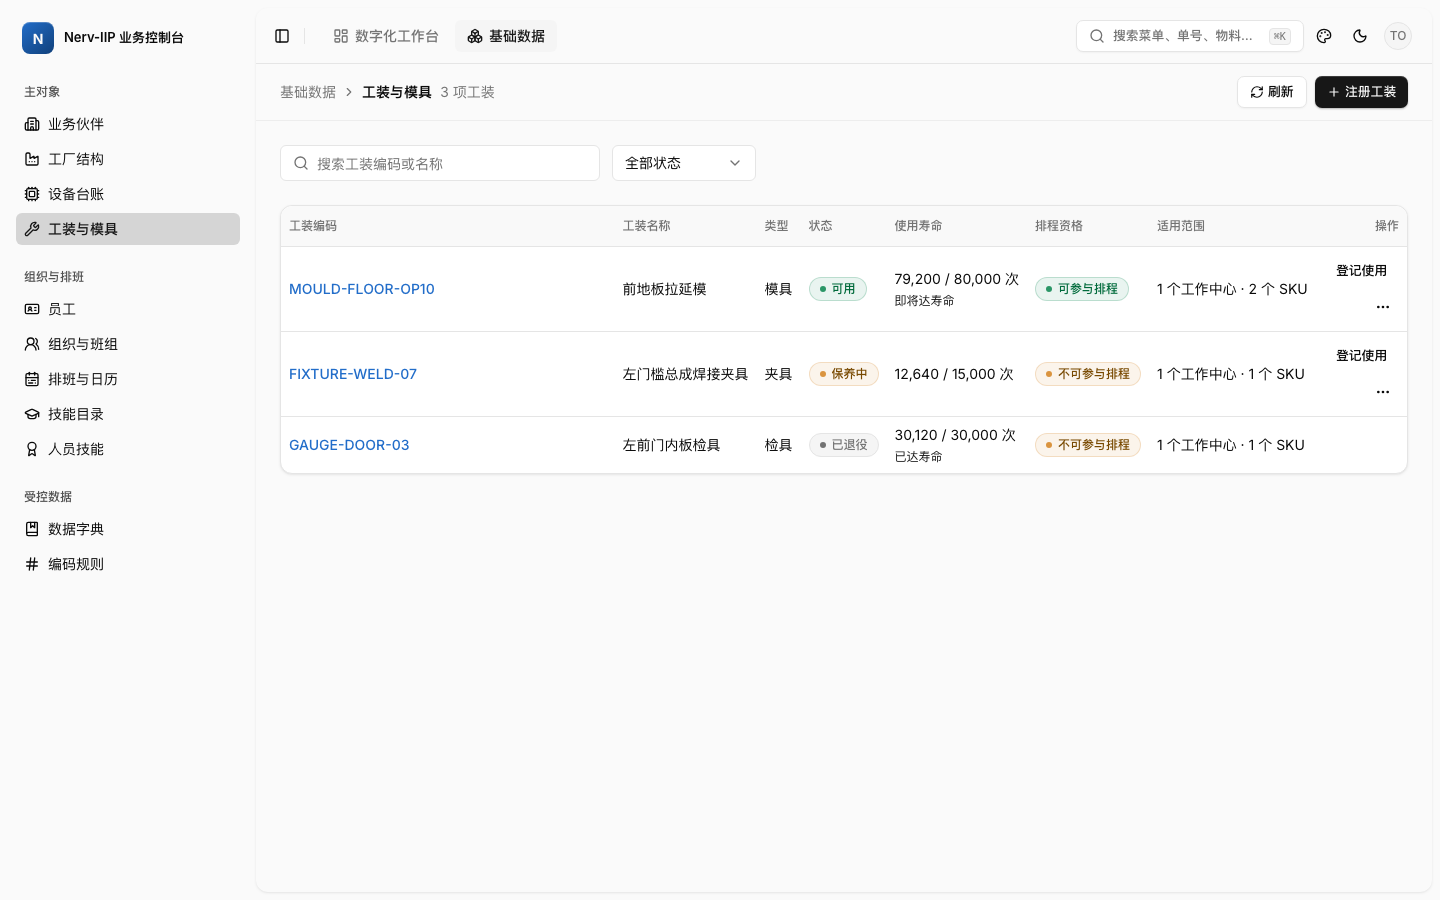
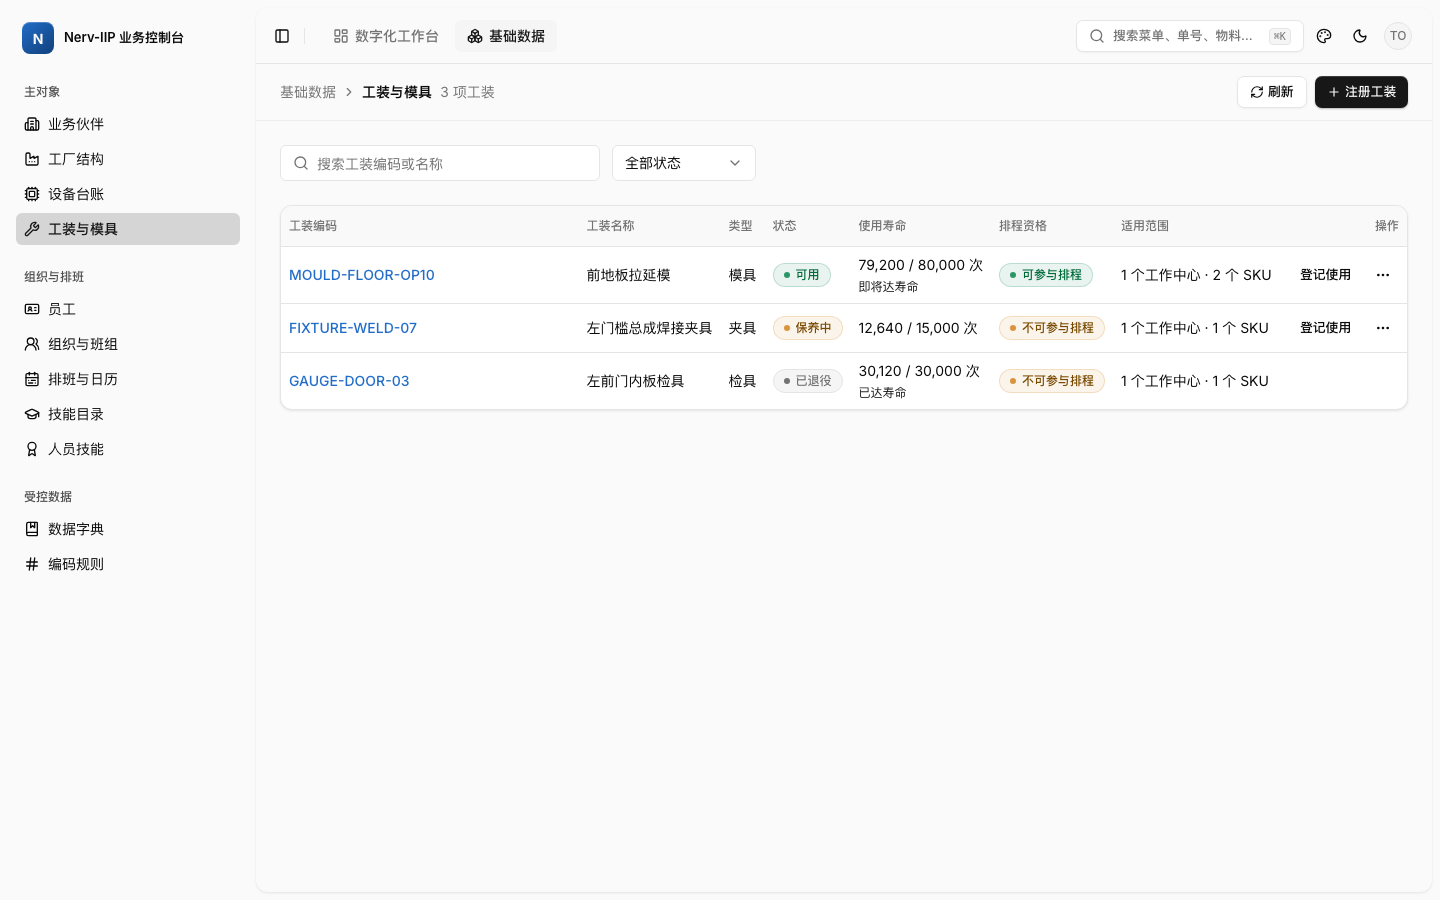
fix(console): 收口工装维护台错误态

diff --git a/frontend/apps/business-console/src/pages/master-data/tooling.vue b/frontend/apps/business-console/src/pages/master-data/tooling.vue
@@ -251,6 +251,7 @@ const statusActionLabel = computed(() =>
       ? '完成保养'
       : '退役',
 )
+const statusReasonInvalid = computed(() => statusShowErrors.value && !statusReason.value.trim())
 function openStatus(
   row: BusinessConsoleToolingAssetItem,
   status: BusinessConsoleToolingAssetStatus,
@@ -417,7 +418,7 @@ const listErrorMessage = computed(() =>
         {{ row.workCenterCodes?.length ?? 0 }} 个工作中心 · {{ row.skuCodes?.length ?? 0 }} 个 SKU
       </template>
       <template #cell-actions="{ row }">
-        <div class="flex flex-wrap justify-end gap-1">
+        <div class="flex flex-nowrap items-center justify-end gap-1">
           <NvButton
             v-if="canManage && row.status !== 'retired'"
             type="button"
@@ -568,7 +569,7 @@ const listErrorMessage = computed(() =>
               <NvFieldError v-if="registerLifeError" :errors="[registerLifeError]" />
             </NvField>
             <FormSectionTitle class="sm:col-span-2">适用范围</FormSectionTitle>
-            <NvField class="sm:col-span-2" :data-invalid="Boolean(registerWorkCenterError)">
+            <NvField class="sm:col-span-2" :aria-invalid="Boolean(registerWorkCenterError)">
               <NvFieldLabel>
                 <span :class="registerWorkCenterError ? 'text-destructive' : undefined">
                   适用工作中心 <span class="text-destructive">*</span>
@@ -576,7 +577,7 @@ const listErrorMessage = computed(() =>
               </NvFieldLabel>
               <div
                 class="grid gap-2 rounded-lg border p-3 sm:grid-cols-2"
-                :aria-invalid="Boolean(registerWorkCenterError)"
+                :data-invalid="Boolean(registerWorkCenterError)"
                 :class="registerWorkCenterError ? 'border-destructive' : ''"
               >
                 <label
@@ -606,7 +607,7 @@ const listErrorMessage = computed(() =>
               </NvFieldDescription>
               <NvFieldError v-if="registerWorkCenterError" :errors="[registerWorkCenterError]" />
             </NvField>
-            <NvField class="sm:col-span-2" :data-invalid="Boolean(registerSkuError)">
+            <NvField class="sm:col-span-2" :aria-invalid="Boolean(registerSkuError)">
               <NvFieldLabel>
                 <span :class="registerSkuError ? 'text-destructive' : undefined">
                   适用 SKU <span class="text-destructive">*</span>
@@ -614,7 +615,7 @@ const listErrorMessage = computed(() =>
               </NvFieldLabel>
               <div
                 class="grid gap-2 rounded-lg border p-3 sm:grid-cols-2"
-                :aria-invalid="Boolean(registerSkuError)"
+                :data-invalid="Boolean(registerSkuError)"
                 :class="registerSkuError ? 'border-destructive' : ''"
               >
                 <label
@@ -661,21 +662,25 @@ const listErrorMessage = computed(() =>
           <NvDialogTitle>{{ statusActionLabel }}</NvDialogTitle>
           <NvDialogDescription>
             {{
-              nextStatus === 'retired'
-                ? '退役为终态，工装将永久退出排程。'
-                : '原因会随状态变更留痕。'
+              nextStatus === 'available'
+                ? '完成保养后将清零累计使用次数，请说明本次状态变更原因。'
+                : '请说明本次状态变更原因。'
             }}
           </NvDialogDescription>
         </NvDialogHeader>
-        <NvField>
-          <NvFieldLabel for="tooling-status-reason"
-            >原因 <span class="text-destructive">*</span></NvFieldLabel
-          >
-          <NvInput id="tooling-status-reason" v-model="statusReason" />
-          <NvFieldError
-            v-if="statusShowErrors && !statusReason.trim()"
-            :errors="['请填写状态变更原因。']"
+        <NvField :data-invalid="statusReasonInvalid">
+          <NvFieldLabel for="tooling-status-reason">
+            <span :class="statusReasonInvalid ? 'text-destructive' : undefined">
+              原因 <span class="text-destructive">*</span>
+            </span>
+          </NvFieldLabel>
+          <NvInput
+            id="tooling-status-reason"
+            v-model="statusReason"
+            :invalid="statusReasonInvalid"
+            :class="statusReasonInvalid ? '!border-destructive' : undefined"
           />
+          <NvFieldError v-if="statusReasonInvalid" :errors="['请填写状态变更原因。']" />
         </NvField>
         <NvDialogFooter>
           <NvButton type="button" variant="outline" @click="statusOpen = false">取消</NvButton>
@@ -697,20 +702,20 @@ const listErrorMessage = computed(() =>
           <NvAlertDialogTitle>退役</NvAlertDialogTitle>
           <NvAlertDialogDescription> 退役为终态，工装将永久退出排程。 </NvAlertDialogDescription>
         </NvAlertDialogHeader>
-        <NvField :data-invalid="statusShowErrors && !statusReason.trim()">
-          <NvFieldLabel for="tooling-retire-reason"
-            >原因 <span class="text-destructive">*</span></NvFieldLabel
-          >
+        <NvField :data-invalid="statusReasonInvalid">
+          <NvFieldLabel for="tooling-retire-reason">
+            <span :class="statusReasonInvalid ? 'text-destructive' : undefined">
+              原因 <span class="text-destructive">*</span>
+            </span>
+          </NvFieldLabel>
           <NvInput
             id="tooling-retire-reason"
             v-model="statusReason"
-            :invalid="statusShowErrors && !statusReason.trim()"
+            :invalid="statusReasonInvalid"
+            :class="statusReasonInvalid ? '!border-destructive' : undefined"
           />
-          <NvFieldDescription>原因会随状态变更留痕。</NvFieldDescription>
-          <NvFieldError
-            v-if="statusShowErrors && !statusReason.trim()"
-            :errors="['请填写退役原因。']"
-          />
+          <NvFieldDescription>请说明本次退役原因。</NvFieldDescription>
+          <NvFieldError v-if="statusReasonInvalid" :errors="['请填写退役原因。']" />
         </NvField>
         <NvAlertDialogFooter>
           <NvAlertDialogCancel>取消</NvAlertDialogCancel>
@@ -743,11 +748,21 @@ const listErrorMessage = computed(() =>
             保存后工装将自动转为保养中，并停止参与排程。
           </p>
         </div>
-        <NvField>
-          <NvFieldLabel for="tooling-usage-count"
-            >本次使用次数 <span class="text-destructive">*</span></NvFieldLabel
-          >
-          <NvInput id="tooling-usage-count" v-model="usageCount" type="number" min="1" step="1" />
+        <NvField :data-invalid="Boolean(usageValidationMessage)">
+          <NvFieldLabel for="tooling-usage-count">
+            <span :class="usageValidationMessage ? 'text-destructive' : undefined">
+              本次使用次数 <span class="text-destructive">*</span>
+            </span>
+          </NvFieldLabel>
+          <NvInput
+            id="tooling-usage-count"
+            v-model="usageCount"
+            type="number"
+            min="1"
+            step="1"
+            :invalid="Boolean(usageValidationMessage)"
+            :class="usageValidationMessage ? '!border-destructive' : undefined"
+          />
           <NvFieldError v-if="usageValidationMessage" :errors="[usageValidationMessage]" />
         </NvField>
         <NvDialogFooter>

diff --git a/frontend/apps/business-console/src/pages/master-data/tooling.test.ts b/frontend/apps/business-console/src/pages/master-data/tooling.test.ts
@@ -105,9 +105,12 @@ const stubs = {
     props: ['modelValue'],
     emits: ['update:modelValue'],
     template:
-      '<select :value="modelValue" @change="$emit(\'update:modelValue\', $event.target.value)"><slot /></select>',
+      '<select :value="modelValue" @change="$emit(\'update:modelValue\', $event.target.value)"><option value=""></option><slot /></select>',
   },
-  NvSelectTrigger: { template: '<span />' },
+  NvSelectTrigger: {
+    props: ['invalid'],
+    template: '<span data-testid="select-trigger" :data-invalid="invalid || undefined" />',
+  },
   NvSelectValue: { template: '<span />' },
   SelectValue: { template: '<span />' },
   NvSelectContent: { template: '<slot />' },
@@ -187,17 +190,36 @@ describe('工装与模具维护台', () => {
     const wrapper = mount(ToolingPage, { global: { stubs } })
     await flushPromises()
     await button(wrapper, '注册工装')!.trigger('click')
+    await wrapper.find('form select').setValue('')
+    await wrapper.find('#tooling-life').setValue('0')
     await wrapper.find('form').trigger('submit')
 
     expect(state.register).not.toHaveBeenCalled()
     expect(wrapper.text()).toContain('请修正已标红的字段，并完整填写带 * 的必填项')
     expect(wrapper.text()).toContain('请填写工装名称。')
+    expect(wrapper.text()).toContain('请选择工装类型。')
+    expect(wrapper.text()).toContain('使用寿命必须是正整数。')
     expect(wrapper.text()).toContain('请至少选择一个适用工作中心。')
     expect(wrapper.text()).toContain('请至少选择一个适用 SKU。')
-    const nameInput = wrapper.find('#tooling-name')
-    expect(nameInput.element.parentElement?.getAttribute('data-invalid')).toBe('true')
-    expect(nameInput.element.parentElement?.classList).toContain('!border-destructive')
+    for (const selector of ['#tooling-name', '#tooling-life']) {
+      const input = wrapper.find(selector)
+      expect(input.element.parentElement?.getAttribute('data-invalid')).toBe('true')
+      expect(input.element.closest('[data-slot="nv-field"]')?.getAttribute('data-invalid')).toBe(
+        'true',
+      )
+    }
+    expect(wrapper.find('form [data-testid="select-trigger"]').attributes('data-invalid')).toBe(
+      'true',
+    )
     expect(wrapper.find('label[for="tooling-name"] > span').classes()).toContain('text-destructive')
+
+    for (const errorText of ['请至少选择一个适用工作中心。', '请至少选择一个适用 SKU。']) {
+      const error = wrapper.findAll('[role="alert"]').find((item) => item.text() === errorText)!
+      const field = error.element.closest('[data-slot="nv-field"]')
+      expect(field?.getAttribute('data-invalid')).toBeNull()
+      expect(field?.getAttribute('aria-invalid')).toBe('true')
+      expect(field?.querySelector('[data-invalid="true"]')).not.toBeNull()
+    }
   })
 
   it('注册校验工作中心、SKU 与正整数寿命，合法时显示组合数并提交真实编码', async () => {
@@ -271,6 +293,14 @@ describe('工装与模具维护台', () => {
     await button(wrapper, '转保养')!.trigger('click')
     await button(wrapper, '确认转保养')!.trigger('click')
     expect(state.changeStatus).not.toHaveBeenCalled()
+    const statusReason = wrapper.find('#tooling-status-reason')
+    expect(statusReason.element.parentElement?.getAttribute('data-invalid')).toBe('true')
+    expect(
+      statusReason.element.closest('[data-slot="nv-field"]')?.getAttribute('data-invalid'),
+    ).toBe('true')
+    expect(wrapper.find('label[for="tooling-status-reason"] > span').classes()).toContain(
+      'text-destructive',
+    )
     await wrapper.find('#tooling-status-reason').setValue('达到规定冲次，安排保养')
     await button(wrapper, '确认转保养')!.trigger('click')
     await flushPromises()
@@ -285,6 +315,14 @@ describe('工装与模具维护台', () => {
     await button(wrapper, '确认登记')!.trigger('click')
     expect(state.recordUsage).not.toHaveBeenCalled()
     expect(wrapper.text()).toContain('使用次数必须是正整数。')
+    const usageInput = wrapper.find('#tooling-usage-count')
+    expect(usageInput.element.parentElement?.getAttribute('data-invalid')).toBe('true')
+    expect(usageInput.element.closest('[data-slot="nv-field"]')?.getAttribute('data-invalid')).toBe(
+      'true',
+    )
+    expect(wrapper.find('label[for="tooling-usage-count"] > span').classes()).toContain(
+      'text-destructive',
+    )
 
     await wrapper.find('#tooling-usage-count').setValue('800')
     expect(wrapper.text()).toContain('保存后工装将自动转为保养中，并停止参与排程')
@@ -310,6 +348,23 @@ describe('工装与模具维护台', () => {
     await confirmRetire.trigger('click')
     await flushPromises()
     expect(state.changeStatus).toHaveBeenCalledWith('MOULD-001', 'retired', '达到报废标准')
+  })
+
+  it('退役请求失败后保留确认框与已填写原因', async () => {
+    state.changeStatus.mockRejectedValueOnce(new Error('暂时不可用'))
+    const wrapper = mount(ToolingPage, { global: { stubs } })
+    await flushPromises()
+
+    await button(wrapper, '退役')!.trigger('click')
+    await wrapper.find('#tooling-retire-reason').setValue('达到报废标准')
+    await button(wrapper, '确认退役')!.trigger('click')
+    await flushPromises()
+
+    expect(wrapper.find('[data-testid="retire-alert"]').exists()).toBe(true)
+    expect((wrapper.find('#tooling-retire-reason').element as HTMLInputElement).value).toBe(
+      '达到报废标准',
+    )
+    expect(state.toastError).toHaveBeenCalled()
   })
 
   it('仅有只读权限时不展示写操作', async () => {

diff --git a/frontend/apps/business-console/e2e/issue1974-tooling-visual.spec.ts b/frontend/apps/business-console/e2e/issue1974-tooling-visual.spec.ts
@@ -80,8 +80,12 @@ test('工装维护台真实浏览器视觉核验', async ({ page }) => {
   const nameInput = page.getByLabel('工装名称 *')
   const nameFrame = nameInput.locator('..')
   const nameLabel = page.locator('label[for="tooling-name"] > span')
+  const firstCandidate = page.getByRole('checkbox').first().locator('..')
   const beforeBorder = await nameFrame.evaluate((element) => getComputedStyle(element).borderColor)
   const beforeLabel = await nameLabel.evaluate((element) => getComputedStyle(element).color)
+  const beforeCandidate = await firstCandidate.evaluate(
+    (element) => getComputedStyle(element).color,
+  )
   await page.getByRole('button', { name: '确认注册' }).click()
   await expect(page.getByText('请填写工装名称。', { exact: true })).toBeVisible()
   await expect(nameFrame).toHaveAttribute('data-invalid', 'true')
@@ -91,10 +95,43 @@ test('工装维护台真实浏览器视觉核验', async ({ page }) => {
   await expect
     .poll(() => nameLabel.evaluate((element) => getComputedStyle(element).color))
     .not.toBe(beforeLabel)
+  await expect
+    .poll(() => firstCandidate.evaluate((element) => getComputedStyle(element).color))
+    .toBe(beforeCandidate)
   await page.screenshot({
     path: path.join(SCREENSHOT_DIR, '03-register-validation.png'),
   })
   await page.keyboard.press('Escape')
+
+  await page.getByRole('button', { name: '工装操作 MOULD-FLOOR-OP10' }).click()
+  await page.getByRole('menuitem', { name: '转保养' }).click()
+  const statusDialog = page.getByRole('dialog')
+  const statusReason = statusDialog.getByLabel('原因 *')
+  const statusFrame = statusReason.locator('..')
+  const statusBorderBefore = await statusFrame.evaluate(
+    (element) => getComputedStyle(element).borderColor,
+  )
+  await statusDialog.getByRole('button', { name: '确认转保养' }).click()
+  await expect(statusFrame).toHaveAttribute('data-invalid', 'true')
+  await expect
+    .poll(() => statusFrame.evaluate((element) => getComputedStyle(element).borderColor))
+    .not.toBe(statusBorderBefore)
+  await statusDialog.getByRole('button', { name: '取消' }).click()
+
+  await page.getByRole('button', { name: '登记使用' }).first().click()
+  const usageDialog = page.getByRole('dialog')
+  const usageInput = usageDialog.getByLabel('本次使用次数 *')
+  const usageFrame = usageInput.locator('..')
+  const usageBorderBefore = await usageFrame.evaluate(
+    (element) => getComputedStyle(element).borderColor,
+  )
+  await usageInput.fill('0')
+  await usageDialog.getByRole('button', { name: '确认登记' }).click()
+  await expect(usageFrame).toHaveAttribute('data-invalid', 'true')
+  await expect
+    .poll(() => usageFrame.evaluate((element) => getComputedStyle(element).borderColor))
+    .not.toBe(usageBorderBefore)
+  await usageDialog.getByRole('button', { name: '取消' }).click()
 
   await page.getByRole('button', { name: '工装操作 MOULD-FLOOR-OP10' }).click()
   await page.getByRole('menuitem', { name: '退役' }).click()
